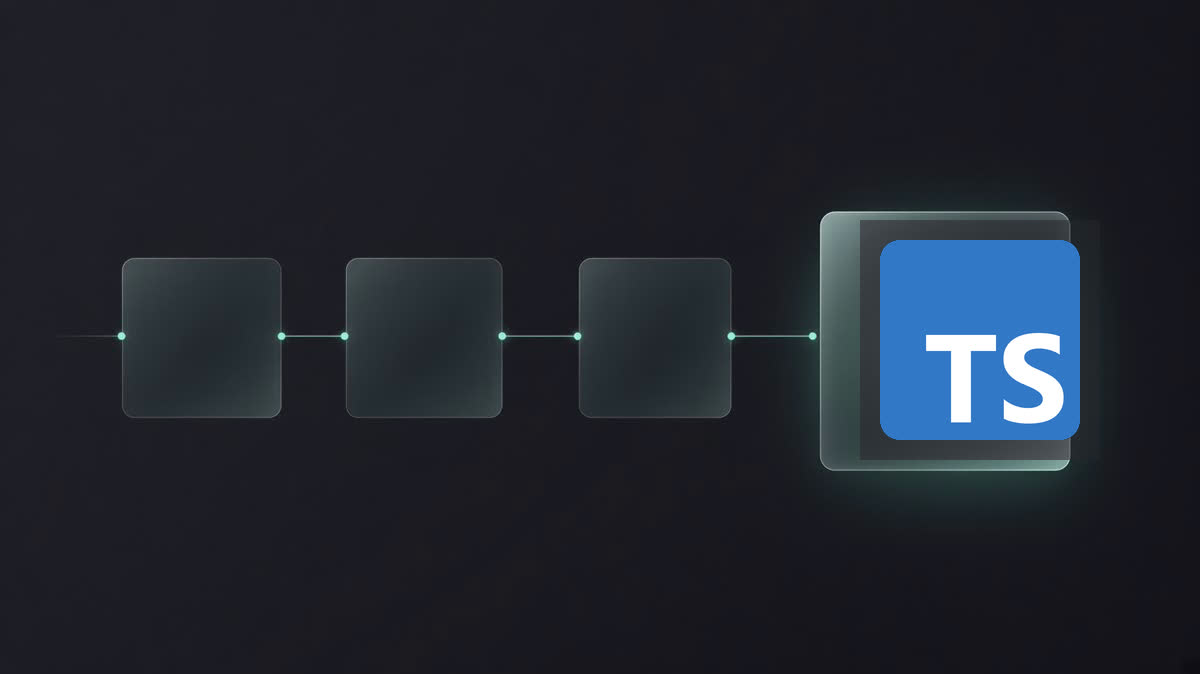
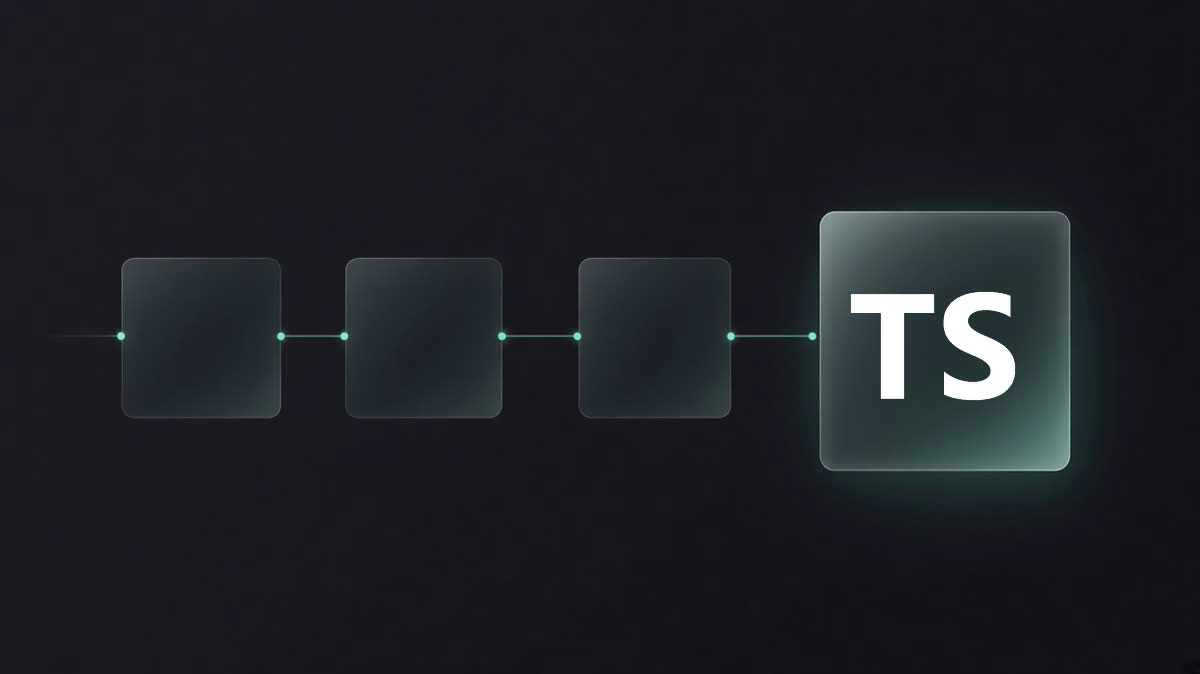
Fix TypeScript cover: letters only on glass card.
Avoid stacking the brand square on our square; compose the official
TS monogram in white and document the lettering/filter rule in spec 004.

Changed region(s): [[0.7092, 0.3116, 0.925, 0.6855]]

diff --git a/specs/004-images.md b/specs/004-images.md
@@ -45,14 +45,17 @@ O nome do arquivo no frontmatter e no markdown não precisa coincidir, mas o fro
 
 Capas de post seguem o mesmo sistema visual da série (plano atmosférico + cartões de vidro / âncora iluminada). A geração **não** inventa identidade de marca alheia nem troca a atmosfera a cada artigo.
 
-1. **Logo oficial quando a tecnologia existe.** Se o post trata de uma lib, linguagem, API ou produto com branding público (TypeScript, React, etc.), a marca na capa é a **logo oficial** do projeto — baixada do kit/branding oficial (ex.: [TypeScript Branding](https://www.typescriptlang.org/branding/)). Não redesenhar, não distorcer, não recolorir o símbolo, não fundir a logo no “logo do site”.
-2. **Compor sobre o nosso padrão.** Mantém-se a composição da série (fundo + cartões / linha / âncora). A logo oficial entra como elemento nítido no cartão ou âncora iluminada — tipicamente por **composição** (asset oficial sobre a base), não por reinterpretar a marca num gerador de imagem.
+1. **Logo oficial quando a tecnologia existe.** Se o post trata de uma lib, linguagem, API ou produto com branding público (TypeScript, React, etc.), a marca na capa vem do **kit/branding oficial** (ex.: [TypeScript Branding](https://www.typescriptlang.org/branding/)). Não redesenhar, não distorcer o desenho das letras, não fundir a logo no “logo do site”.
+2. **Compor sobre o nosso padrão — sem quadrado-sobre-quadrado.** Mantém-se a composição da série (fundo + cartões / linha / âncora). A marca entra por **composição** no cartão iluminado. Se o container já é o nosso quadrado/cartão de vidro, **não** empilhar a logo com fundo próprio (o quadrado azul do TypeScript, o escudo de outra marca, etc.). Preferir, nesta ordem:
+   1. **só a escrita / monograma** do asset oficial (letras “TS”, wordmark, glyph cutout) em branco ou tom único sobre o cartão;
+   2. **logo completa com tratamento** — preto e branco, monocromático ou overlay suave — para a marca não brigar com o vidro;
+   3. só então a marca colorida full-bleed, e **somente** se ela for a âncora sozinha (sem nosso quadrado por baixo).
 3. **Fundo estável entre capas.** O fundo das capas usa um tom fixo da série, ligeiramente distinto do `--color-background` dark do site (`#16161b`), para a capa não “sumir” no chrome — mas **não** varia de post para post. Cor-alvo da série: **`#1a1d24`** (slate escuro). Evitar teal, navy saturado, roxo ou gradientes de marca diferentes a cada geração. Variação permitida: luz/vinheta da âncora; o campo de fundo permanece o mesmo.
-4. **Sem tipografia inventada da marca.** Nada de monograma “aproximado”, wordmark recriado ou ícone “inspirado”. Ou é o asset oficial, ou a capa fica só com o padrão abstrato da série (estrela / cartão), sem fingir a logo.
+4. **Sem tipografia inventada da marca.** Nada de monograma “aproximado”, wordmark recriado ou ícone “inspirado”. Ou é o asset oficial (letras/logo), ou a capa fica só com o padrão abstrato da série (estrela / cartão), sem fingir a marca.
 5. **Prompt / checklist de geração.** Ao pedir ou montar uma capa:
    - referenciar 1–2 capas existentes da série;
    - fixar o hex do fundo (`#1a1d24`);
-   - se houver marca: baixar o asset oficial e compor; no prompt da base, deixar a área da âncora limpa (sem letras falsas);
+   - se houver marca: baixar o asset oficial; deixar a âncora limpa no prompt da base; compor **letras/wordmark** (ou logo filtrada) centralizada no cartão — sem placa/fundo extra atrás da escrita;
    - exportar o par WebP (corpo) + JPEG leve (OG) em ~1200×674 (ou equivalente 16:9 da série), ≤ ~100 KB no social.
 
 ## Consequências
@@ -60,4 +63,4 @@ Capas de post seguem o mesmo sistema visual da série (plano atmosférico + cart
 - Novos posts entram no repo já com par jpg + webp (ou só webp leve se o jpg for desnecessário).
 - CI / checklist humano: rejeitar PNG de capa > ~100 KB no frontmatter.
 - Cover figure opcional no chrome do artigo (fora do markdown) continua no backlog; quando existir, usa o mesmo `post.image` + `next/image`.
-- Posts sobre tecnologia/lib existente preferem capa com logo oficial composta; o fundo das capas da série permanece `#1a1d24` salvo decisão explícita de mudar a série inteira.
+- Posts sobre tecnologia/lib existente preferem marca oficial composta (escrita/monograma ou logo filtrada quando o container é nosso); o fundo das capas da série permanece `#1a1d24` salvo decisão explícita de mudar a série inteira.

diff --git a/content/posts/typescript-aliado-no-front-end.md b/content/posts/typescript-aliado-no-front-end.md
@@ -8,7 +8,7 @@ lang: pt-BR
 date: '2026-10-28'
 ---
 
-![Capa: cartões de vidro ligados por uma linha e, no cartão iluminado, a logo oficial do TypeScript.](/imgs/posts/typescript-aliado-no-front-end.webp)
+![Capa: cartões de vidro ligados por uma linha e, no cartão iluminado, o monograma TS da marca oficial em branco.](/imgs/posts/typescript-aliado-no-front-end.webp)
 
 No front-end, o bug caro quase nunca é “o botão não renderizou”. É a prop errada que só aparece depois do deploy. É o estado de loading misturado com sucesso. É a resposta da API que mudou de forma e a tela ainda confia no formato antigo.
 
